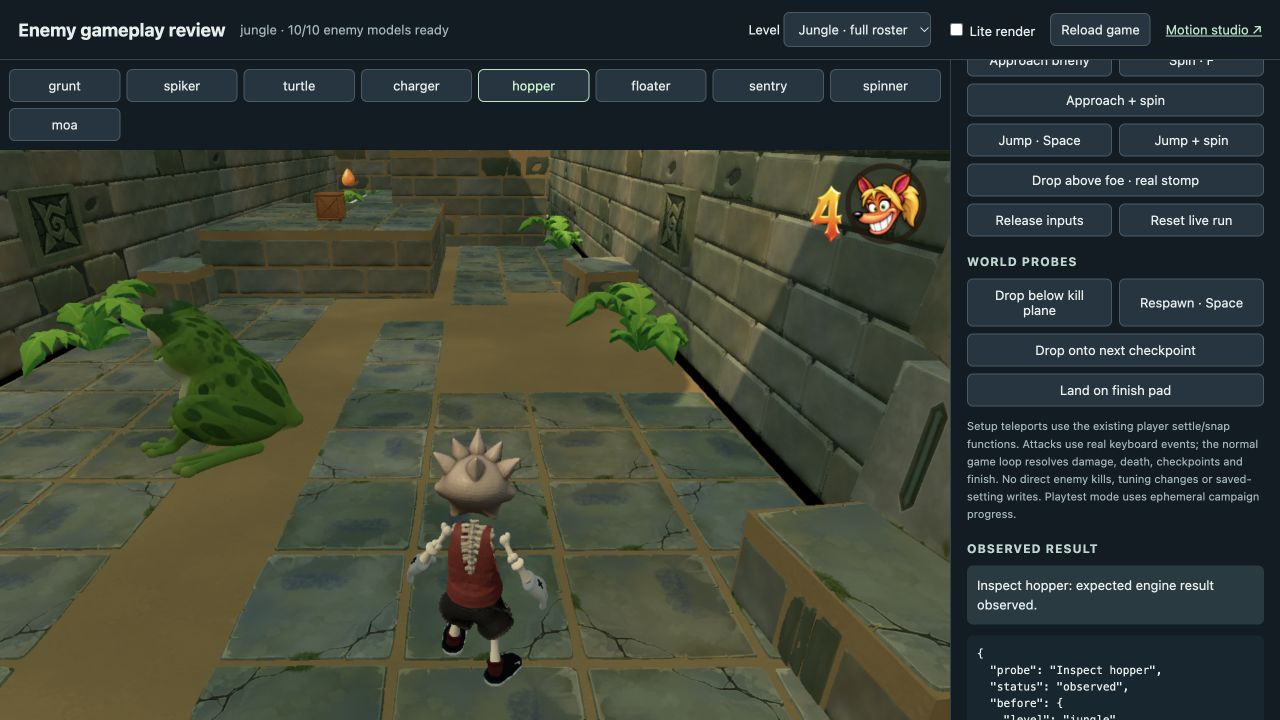
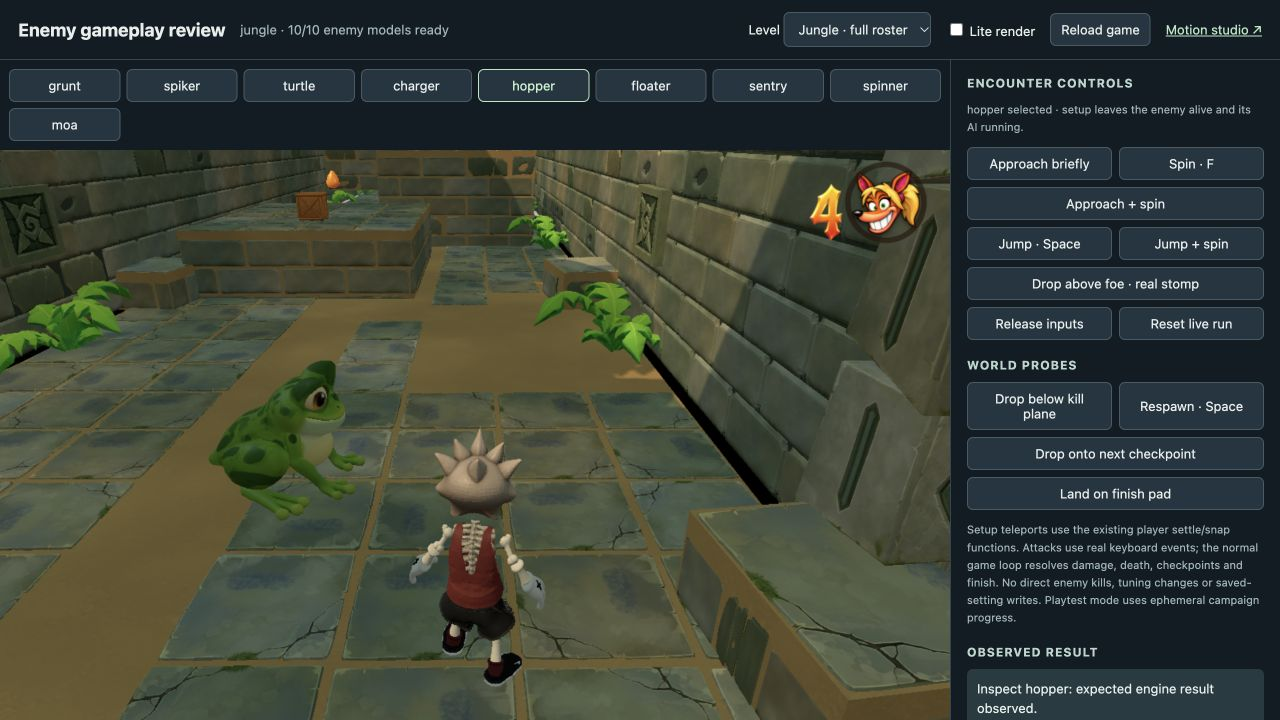
Keep frog feet planted through the touchdown frame

diff --git a/src/enemies/runtime.ts b/src/enemies/runtime.ts
@@ -272,7 +272,7 @@ export function createEnemyVisual(kind:EnemyKind,options:EnemyVisualOptions={}):
         ?phase>=start&&phase<=end:phase>=start||phase<=end)
         :Math.sin(Math.PI*2*(phase+(diagonal?0:.5)))>=0;
       result[leg]=frame.plantedFeet?.[leg]??(frame.grounded&&frame.alive&&
-        (frame.speed<.05||contact));
+        (kind==='hopper'||frame.speed<.05||contact));
     }
     return result;
   }
@@ -312,7 +312,7 @@ export function createEnemyVisual(kind:EnemyKind,options:EnemyVisualOptions={}):
     }
   }
   function customGait(frame:EnemyAnimationFrame):void {
-    if(walk||frame.speed<=.05||!frame.grounded||!frame.alive)return;
+    if(kind==='hopper'||walk||frame.speed<=.05||!frame.grounded||!frame.alive)return;
     for(const leg of ENEMY_LEGS){
       const [upper,lower]=legRoles(leg),diagonal=leg==='frontLeft'||leg==='hindRight';
       const theta=Math.PI*2*(phase+(diagonal?0:.5));
@@ -338,7 +338,7 @@ export function createEnemyVisual(kind:EnemyKind,options:EnemyVisualOptions={}):
       for(const leg of ENEMY_LEGS){const [upper,lower]=legRoles(leg);rotate(nodes[upper],pulse*.25);rotate(nodes[lower],-pulse*.4);}
       return;
     }
-    const profile=ENEMY_MOTION[motionKind],moving=frame.speed>.05&&frame.grounded;
+    const profile=ENEMY_MOTION[motionKind],moving=kind!=='hopper'&&frame.speed>.05&&frame.grounded;
     const breath=Math.sin(frame.time*profile.breathHz*Math.PI*2),gait=Math.sin(phase*Math.PI*2);
     const organic=kind!=='sentry'&&kind!=='spinner'&&kind!=='floater';
     if(organic){

diff --git a/src/enemies/elasticity.ts b/src/enemies/elasticity.ts
@@ -51,7 +51,10 @@ export function enemyElasticPulse(time:number,duration:number):number {
 export function sampleEnemyElasticity(kind:EnemyKind,frame:EnemyAnimationFrame,
   phase:number,planted:Partial<Record<EnemyLeg,boolean>>={},defeatTime=0,
   profile=ENEMY_ELASTICITY_PROFILES[kind]):EnemyElasticitySample {
-  const moving=frame.speed>.05&&frame.grounded&&frame.alive;
+  // Landing still reports the last airborne horizontal displacement. A frog
+  // never walks: that one frame must retain its idle/landing deformation.
+  const moving=frame.speed>.05&&frame.grounded&&frame.alive&&
+    (kind!=='hopper'||profile===NIGHTWORKS_GOBLIN_ELASTICITY_PROFILE);
   const amplitudes=moving?SHARED.walk:SHARED.idle;
   const strength=moving?profile.walk:profile.idle;
   const idleHz=kind==='moa'?.9:ENEMY_MOTION[kind].breathHz;

diff --git a/docs/LEVEL_ITERATIONS.md b/docs/LEVEL_ITERATIONS.md
@@ -2073,5 +2073,6 @@ Validation: 8,685 full-render browser steps at native 3840 × 2160, six checkpoi
 - Brief: improve the frog hop. Separate the existing .45-second crouch into impact absorption, a finite rebound/settle, and a fresh load. Lead the leap with a hind-leg kick, tuck the forelegs and feet near the apex, reach on descent, and counter-rotate the face against the torso pitch. Keep the existing trajectory, speed, collision boxes, combat windows, and source GLB.
 - Use the shared editable species/character elasticity strengths for segment compression and stretch. Ease planted-foot correction out over the first .085 seconds of flight and introduce limb deformation with that release, preserving the complete supported pose at the takeoff boundary. Keep all four grounded sole matrices fixed; never scale the actor or complete skeleton. Reviewed front, quarter, and side playback and the actual Jungle encounter.
 - `tools/test-frog-hop.mjs` samples every vertex of the shipping skin at 240 Hz, including state boundaries, supported soles, floor clearance, reset/repeated samples, root ownership, distinct silhouettes, and finite landing recovery. It fails on unmodified published code (17.9 cm skin discontinuity) and passes after the change (largest adjacent sample displacement 5.7 cm, no floor penetration). Measured silhouette heights: rest 2.189 m, loaded 1.841 m, kick 2.528 m, tuck 2.068 m. Update the reviewed vertical envelope to 2.6 m; retain the original width/depth and floor limits.
+- Also cover the real touchdown frame, which still reports the last airborne horizontal displacement. Suppress the frog’s fallback walk, walking breath/glance changes, and alternating contacts on that frame. The regression reproduces a 56.8 cm skin snap and 26.1 cm floor penetration before the fix, then verifies identical landing poses with zero or carried speed, including active glances and alternate gait phases.
 - Validation: enemy asset, runtime, gameplay, and polish checks; the new real-skin regression; production TypeScript/Vite builds. Browser review includes lite/full rendering, supported placement, real spin collision, checkpoint activation, pit death/automatic respawn, and finish handling, with console checks. No level-data, movement-tuning, or unrelated workspace changes are included in the release; no full-suite run.
 - Prompt-to-playable: approximately **9 minutes** to the improved hop in the real local Jungle encounter; release checks and publishing follow. Evidence: `docs/art-reviews/frog-hop/` and `docs/frog-hop-review.json`.
